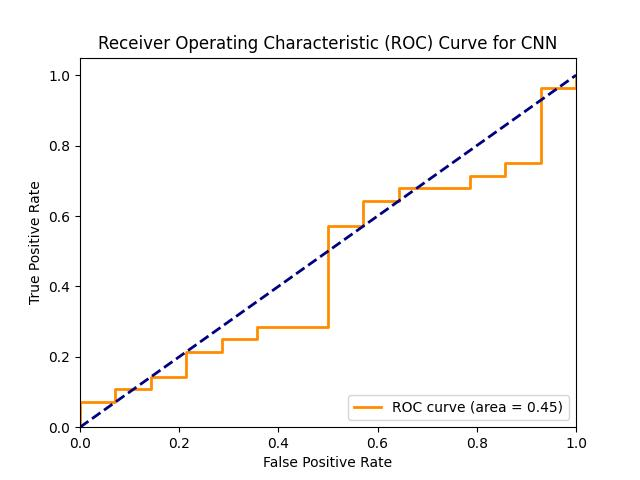
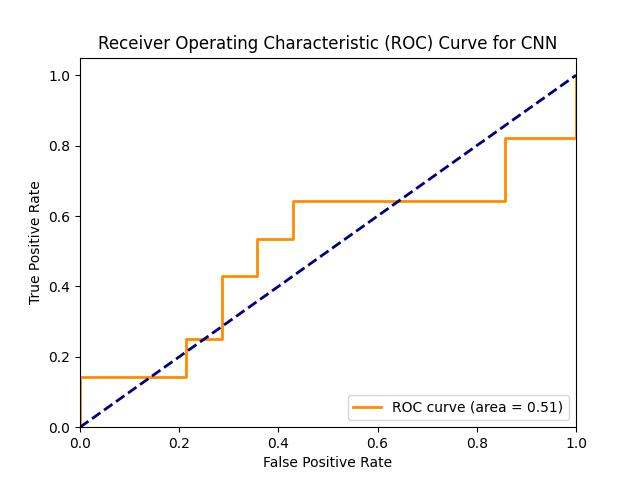
fixed validate function
fixed for rnn, fixed txt format

diff --git a/validation/validate.py b/validation/validate.py
@@ -89,28 +89,31 @@ def validate(train_data,
   formatted_datetime = current_datetime.strftime("%Y-%m-%D %H:%M:%S")
 
   with open('validation_results/figure_list.txt', 'w') as f:
-     f.write(f"New Run: {formatted_datetime}\n")
+     f.write(f"New Run: {formatted_datetime}\n\n")
 
   for i,score in enumerate(results_f2_score):
     print("f2 score for ", model_names[i], ": ", score, sep = '')
     with open('validation_results/figure_list.txt', 'a') as f:
-     f.write(f"\nThe f2 score for {model_names[i]} is {score}")
+     f.write(f"The f2 score for {model_names[i]} is {score}\n")
   
   with open('validation_results/figure_list.txt', 'a') as f:
      f.write(f"The highest f2 score is {max(results_f2_score, key=lambda x: x)} \n\n")
 
   # for i, pred in enumerate([svm_pred, rf_pred, hmm_pred, kmeans_pred, cnn_pred, rnn_pred]):
-  for i, pred in enumerate([svm_proba, rf_proba, xg_proba, gmm_proba,cnn_proba, rnn_proba]):
+  for i, pred in enumerate([svm_proba, rf_proba, xg_proba, gmm_proba, cnn_proba, rnn_proba]):
   #for i, pred in enumerate([svm_proba, rf_proba, xg_proba, gmm_proba,cnn_proba]):
 
     if i < 4:
       #  print("ostensible 1")
        pred = np.amax(pred, axis =1)
        fpr, tpr, _ = roc_curve(test_labels, pred)
-    else:
-      # print(i)
-      # print(pred)
+    elif i == 4:
       fpr, tpr, _ = roc_curve(y_true, pred)
+    else:
+      shape = np.shape(pred)
+      pred = np.reshape(pred, (shape[1]))
+      fpr, tpr, _ = roc_curve(y_true, pred)
+    
     roc_auc = auc(fpr, tpr)
     plt.figure()
     plt.plot(fpr, tpr, color='darkorange', lw=2, label='ROC curve (area = {:.2f})'.format(roc_auc))
@@ -157,6 +160,7 @@ def validate(train_data,
 
     with open('validation_results/figure_list.txt', 'a') as f:
         f.write(model_names[i])
+        f.write(f'\n')
         f.write(str(matrix))
         f.write(f'\n Precision: {precision}\n')
         f.write(f'Accuracy: {accuracy}\n')

diff --git a/test_Master_server.py b/test_Master_server.py
@@ -153,17 +153,17 @@ strat_kfold = strat_kfold_object.split(data_reshape, patient_id)
 # ica_scores, ica_params = train_test_tune_ica(features_3d_array, labels, patient_id, strat_kfold)
 
 #Load in locally generated
-with open('results/best_umap_params_dict.pkl', 'rb') as f:
-    umap_params = pickle.load(f)
-with open('results/best_ica_params_dict.pkl', 'rb') as f:
-    ica_params = pickle.load(f)
-with open('results/best_umap_scores.pkl', 'rb') as f:
-    umap_scores = pickle.load(f)
-with open('results/best_ica_scores.pkl', 'rb') as f:
-    ica_scores = pickle.load(f)
+# with open('results/best_umap_params_dict.pkl', 'rb') as f:
+#     umap_params = pickle.load(f)
+# with open('results/best_ica_params_dict.pkl', 'rb') as f:
+#     ica_params = pickle.load(f)
+# with open('results/best_umap_scores.pkl', 'rb') as f:
+#     umap_scores = pickle.load(f)
+# with open('results/best_ica_scores.pkl', 'rb') as f:
+#     ica_scores = pickle.load(f)
 
 # Find best feature selection method and keep those parameters
-best_model_params, best_model_params_scores = find_best_feat_select(umap_params, umap_scores, ica_params, ica_scores)
+# best_model_params, best_model_params_scores = find_best_feat_select(umap_params, umap_scores, ica_params, ica_scores)
 
 #Load in best determined model params
 with open('results/best_params_dict.pkl', 'rb') as f:
